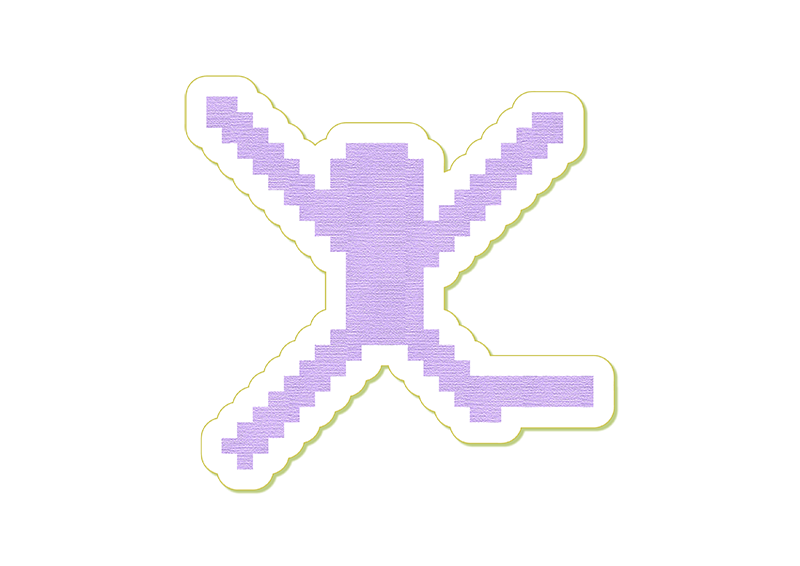
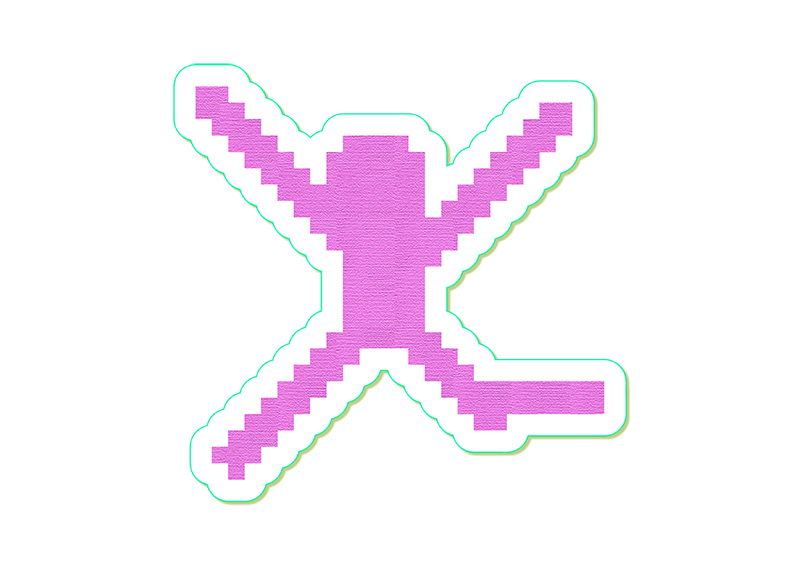
改圖 改排行榜

Changed region(s): [[0.2188, 0.0901, 0.8125, 0.9011]]

diff --git a/exe/exetest/main.js b/exe/exetest/main.js
@@ -305,7 +305,7 @@ if (prevDetailBtn && nextDetailBtn) {
 // ==========================================
 // 4. 排行榜功能 (Leaderboard)
 // ==========================================
-const sheetBase = "https://opensheet.elk.sh/1VM5JbEfk4_CFy0A1qfKJaFc1u3Nvm9ueXKm_pH5k0Dw/";
+const sheetBase = "https://opensheet.elk.sh/1LcyVXV8zbzgebO96VmfwnsgnVseZMHh7MY9qBxJmjgQ/";
 let currentSheet = "七大項總錦標"; 
 
 const lbTabs = document.querySelectorAll('#leaderboard-tabs-container .lb-tab');
@@ -343,7 +343,7 @@ async function updateLeaderboard(sheetName) {
         // 過濾資料
         const data = rawData.filter(p => {
             const name = p.姓名 || p.Name;
-            const number = p.編號 || p.玩家號碼;
+            const number = p.UID || p.玩家號碼;
             return (name && name.trim() !== "") || (number && number.toString().trim() !== "");
         });
                 
@@ -371,7 +371,7 @@ async function updateLeaderboard(sheetName) {
             actualRank++;
             
             const pName = p.姓名 || p.Name || "-"; 
-            const pNumber = p.編號 || p.玩家號碼 || "未知";
+            const pNumber = p.UID || "未知";
             
             let rawScore = p.分數 !== undefined ? Number(p.分數) : 0;
             if (isNaN(rawScore)) rawScore = 0;
@@ -792,7 +792,7 @@ const translations = {
         'hero_welcome_2': '科技x運動體適能挑戰賽',
         'event_p1': '【ExErcise 2.2】科技x運動體適能挑戰賽',
         'event_p2': '用7個30秒，測試你的七大運動能力！',
-        'event_p3': '由北科大互動設計 113 級與光XR實境樂園聯手打造。',
+        'event_p3': '由北科大互動設計 113 級打造。',
         'event_p4': '我們打破穿戴限制，將運動變好玩。挑戰全新的運動可能',
 
         // 分頁按鈕
@@ -838,7 +838,9 @@ const translations = {
         // Footer
         'footer_host': '主辦單位：', 
         'footer_co': '合作單位：',
-        'footer_dept': '國立臺北科技大學 113級互動設計系', 'footer_locked': '光XR實境樂園', 'btn_ig': '追蹤官方IG',
+        'footer_dept': '國立臺北科技大學 互動設計系113 級<br>XR Lab@NTUT<br>MiiSLab@NTUST', 
+        'footer_locked': '不或互動娛樂有限公司<br>樂亦非凡股份有限公司', 
+        'btn_ig': '追蹤官方IG',
 
         // 排行榜
         'lb_title': '即時排行榜', 'lb_loading': '載入中...', 'lb_all': '七大項總錦標',
@@ -925,7 +927,7 @@ const translations = {
         'hero_welcome_2': 'Tech × Sports Fitness Challenge',
         'event_p1': '【ExErcise 2.2】Tech × Sports Fitness Challenge',
         'event_p2': 'Test your 7 major athletic abilities through 7 thirty-second challenges!',
-        'event_p3': 'Co-created by NTUT Interaction Design, Class 113, and Light X-Reality Land.',
+        'event_p3': 'Created by NTUT Interaction Design, Class 113.',
         'event_p4': 'Breaking free from wearable constraints to make exercise fun. Experience a whole new way to move!',
 
         // Tabs
@@ -972,7 +974,9 @@ const translations = {
         // Footer
         'footer_host': 'Organizer:', 
         'footer_co': 'Co-organizer:',
-        'footer_dept': 'NTUT Interaction Design 113', 'footer_locked': 'Light X-Reality Land', 'btn_ig': 'Follow Instagram',
+        'footer_dept': 'NTUT Interaction Design 113<br>XR Lab@NTUT<br>MiiSLab@NTUST', 
+        'footer_locked': 'buho entertainment<br>SmartJoy Digital Art', 
+        'btn_ig': 'Follow Instagram',
 
         // Leaderboard
         'lb_title': 'Ranking', 'lb_loading': 'Loading...', 'lb_all': 'Collective Score Tournament',

diff --git a/exe/exetest/index.html b/exe/exetest/index.html
@@ -66,7 +66,7 @@
                 <h3 class="mega-brand-name">【NTUT IXD】</h3>
                 <p class="mega-address" data-i18n="mega_address">
                     國立臺北科技大學<br>
-                    互動設計系 113級
+                    互動設計系113 級
                 </p>
                 <p class="mega-copyright">©ntut.ixd_113</p>
             </div>
@@ -157,7 +157,7 @@
                             <div class="event-text">
                                 <p data-i18n="event_p1">【ExErcise 2.2】科技x運動體適能挑戰賽</p>
                                 <p data-i18n="event_p2">用7個30秒，測試你的七大運動能力！</p>
-                                <p data-i18n="event_p3">由北科大互動設計 113 級與光XR實境樂園聯手打造。</p>
+                                <p data-i18n="event_p3">由北科大互動設計 113 級打造。</p>
                                 <p data-i18n="event_p4">我們打破穿戴限制，將運動變好玩。挑戰全新的運動可能</p>
                             </div>
                             <img src="img/s3.webp" class="event-sub-img" alt="Event Sub">
@@ -287,14 +287,11 @@
                     <h3 class="footer-brand-name">【NTUT IXD】</h3>
 
                     <div class="footer-info-grid">
-                        <div class="footer-info-left">
-                            <p data-i18n="footer_host">主辦單位：</p>
-                            <p data-i18n="footer_co">合作單位：</p>
-                        </div>
-                        <div class="footer-info-right">
-                            <p data-i18n="footer_dept">國立臺北科技大學 113級互動設計系</p>
-                            <p data-i18n="footer_locked">光XR實境樂園</p>
-                        </div>
+                        <p class="info-label" data-i18n="footer_host">主辦單位：</p>
+                        <p class="info-value" data-i18n="footer_dept">國立臺北科技大學 互動設計系113 級<br>XR Lab@NTUT<br>MiiSLab@NTUST</p>
+                        
+                        <p class="info-label" data-i18n="footer_co">合作單位：</p>
+                        <p class="info-value" data-i18n="footer_locked">不或互動娛樂有限公司<br>樂亦非凡股份有限公司</p>
                     </div>
                     <p class="footer-email">EMAIL：ntut.ixd.113@gmail.com</p>
 

diff --git a/exe/exetest/main.css b/exe/exetest/main.css
@@ -800,7 +800,7 @@ img {
 
 .lb-header, .lb-player {
     display: grid;
-    grid-template-columns: 40px 1fr 45px 80px;
+    grid-template-columns: 35px 1fr 60px 80px;
     gap: 5px;
     align-items: center;
     padding: 12px 5px; 
@@ -824,9 +824,9 @@ img {
     white-space: nowrap; overflow: hidden; text-overflow: ellipsis; text-align: left; 
     font-size: 0.8rem;
 }
-.lb-number { color: #e3e3e3; font-size: 0.8rem; text-align: right; }
+.lb-number { color: #e3e3e3; font-size: 0.75rem; text-align: right; }
 .lb-score { 
-    font-weight: bold; color: #0B0B0B; text-align: right; 
+    font-weight: bold; color: #FD93F2; text-align: right; 
     white-space: nowrap; overflow: hidden; font-size: 0.9rem;
 }
 .lb-player { background: #0B0B0B; }
@@ -1007,25 +1007,29 @@ img {
     margin-left: -8px;            
 }
 
-/* 資訊排版 (主辦/合作) */
+/* 資訊排版 (主辦/合作) - 改用 Grid 網格對齊 */
 .footer-info-grid {
-    display: flex;
-    gap: 15px;
+    display: grid;
+    grid-template-columns: auto 1fr; /* 左邊標題自動適應寬度，右邊吃滿剩下的空間 */
+    gap: 12px 15px; /* 上下的距離是 12px，左右的距離是 15px */
+    align-items: flex-start; /* 🌟 關鍵魔法：讓左邊標題永遠對齊右邊的「第一行」 */
     margin-bottom: 20px;
     font-size: 0.9rem;
     line-height: 1.8;
 }
 
-/* 標題變成螢光綠 */
-.footer-info-left p {
-    color: #08F6AA;               
+/* 標題維持螢光綠 */
+.info-label {
+    color: #08F6AA;
     font-weight: bold;
-    white-space: nowrap;
+    white-space: nowrap; /* 確保標題絕對不會斷行 */
+    margin: 0;
 }
 
 /* 內容維持白色 */
-.footer-info-right p {
+.info-value {
     color: #f0f0f0;
+    margin: 0;
 }
 
 /* 信箱 */
